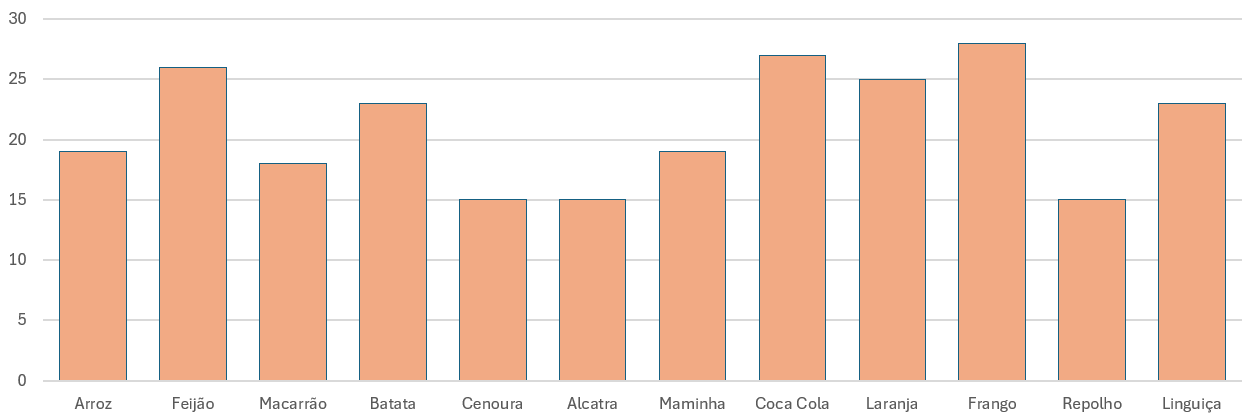
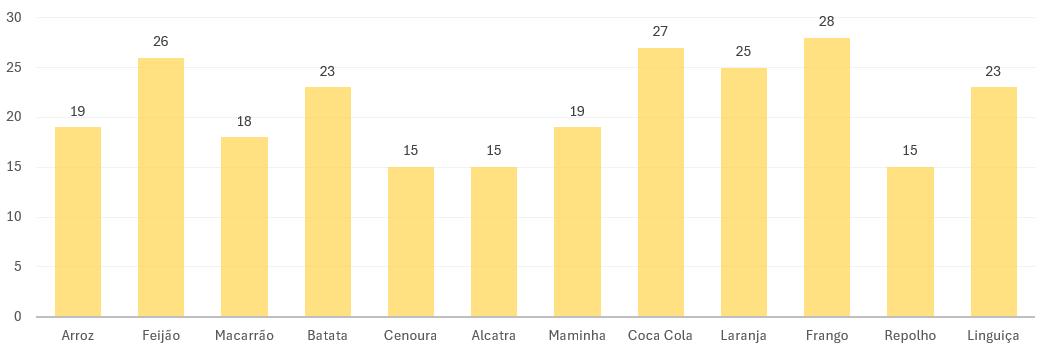
V.1.8

diff --git a/src/index1.css b/src/index1.css
@@ -5,7 +5,7 @@
   height: 100%;
   min-width: 1390px;
   min-height: 100vh;
-  background-color: #f3f0e8;
+  background-color: white;
   color: black;
   margin: 0 auto;
 }
@@ -17,7 +17,7 @@
   gap: 20px;
   padding: 5px 25px;
   background-color: white;
-  border-bottom: 1.5px solid #b88b09;
+  border-bottom: 3px solid black;
 }
 
 .hamburger-btn {
@@ -65,9 +65,8 @@
   justify-content: center;
   align-items: center;
   height: 35px;
-  background: brown;
+  background: #c92c2c;
   color: white;
-  border: 1.5px solid #b88b09;
   border-radius: 6px;
   font-weight: bold;
   margin-right: 0;
@@ -93,7 +92,7 @@
   margin: 0 10px;
   padding: 10px;
   background-color: white;
-  border: 1.5px solid #b88b09;
+  border: 1px solid gold;
   color: black;
   border-radius: 10px;
   font-weight: bold;
@@ -111,7 +110,8 @@
 
 .card {
   background-color: white;
-  border: 1.5px solid #b88b09;
+  border: 1px solid gold;
+  box-shadow: 0 4px 10px rgba(0, 0, 0, 0.30);
   padding: 10px;
   height: 125px;
   border-radius: 10px;
@@ -140,7 +140,7 @@
   flex: 3;
   background-color: white;
   border-radius: 12px;
-  border: 1.5px solid #b88b09;
+  box-shadow: 0 4px 10px rgba(0, 0, 0, 0.40);
   padding: 12px;
   background-image: url(./images/grafico.png);
   background-size: contain;
@@ -155,7 +155,7 @@
   background: white;
   border-radius: 12px;
   padding: 10px;
-  border: 1.5px solid #b88b09;
+  box-shadow: 0 4px 10px rgba(0, 0, 0, 0.40);
   min-height: 200px;
   max-height: 350px;
 }
@@ -164,6 +164,7 @@
   text-align: center;
   font-size: 22px;
   font-weight: bold;
+  font-style: italic;
   color: #c92c2c;
   margin-bottom: 15px;
 }
@@ -182,12 +183,35 @@
   background-color: white;
   color: black;
   margin-bottom: 12px;
-  border: 1.5px solid #b88b09;
 }
 
 .validade, .estoque, .fornecedor, .boleto {
-  background-color: #fff0f0;
+  background-color: #ffeaea;
   padding: 10px;
+}
+
+.validade-icone, .estoque-icone, .fornecedor-icone, .boleto-icone {
+  width: 25px;
+  height: 25px;
+  border-radius: 50%;
+  background-size: cover;
+  background-position: center;
+}
+
+.validade-icone {
+  background-image: url(./images/validade.png);
+}
+
+.estoque-icone {
+  background-image: url(./images/estoque.png);
+}
+
+.fornecedor-icone {
+  background-image: url(./images/fornecedor.png);
+}
+
+.boleto-icone {
+  background-image: url(./images/boleto.png);
 }
 
 * {
@@ -222,7 +246,7 @@ body, #root {
   background: white;
   padding: 20px;
   border-radius: 12px;
-  border: 1.5px solid #b88b09;
+  border: 1.5px solid gold;
   text-align: center;
 }
 
@@ -250,18 +274,18 @@ input {
   border-radius: 6px;
   padding: 10px 10px;
   margin-bottom: 25px;
-  background-color: rgb(175, 175, 175);
-  border: 1.5px solid #b88b09;
+  background-color: white;
+  border: 1.5px solid rgb(175, 175, 175);
 }
 
 .auth-switch {
-  color: #b88b09;
+  color: black;
   margin-top: 15px;
   font-size: 14px;
 }
 
 .auth-switch span {
-  color: 1.5px solid #b88b09;
+  color: 1.5px solid gold;
   cursor: pointer;
   font-weight: bold;
 }
@@ -279,8 +303,7 @@ input {
   border-radius: 6px;
   padding: 10px 40px 10px 10px;
   margin-bottom: 15px;
-  border: 1px solid #ccc;
-  border: 1.5px solid #b88b09;
+  border: 1.5px solid rgb(175, 175, 175);  
 }
 
 .eye-btn {

diff --git a/src/Index1.jsx b/src/Index1.jsx
@@ -58,19 +58,23 @@ export default function Index1({ irPara }) {
         <h2 className="alerta-titulo">ALERTAS!</h2>
 
         <button className="alerta-btn validade">
-          <span>⚠</span> Notificação de Validade!
+          <span className="validade-icone"></span>
+          <span>Notificação de Validade!</span> 
         </button>
 
         <button className="alerta-btn estoque">
-          <span>📦</span> Notificação de Estoque!
+          <span className="estoque-icone"></span>
+          <span>Notificação de Estoque!</span> 
         </button>
 
         <button className="alerta-btn fornecedor">
-          <span>📄</span> Notificação de Fornecedor!
+          <span className="fornecedor-icone"></span>
+          <span>Notificação de Fornecedor!</span> 
         </button>
 
         <button className="alerta-btn boleto">
-          <span>💵</span> Notificação de Boleto!
+          <span className="boleto-icone"></span>
+          <span>Notificação de Boleto!</span> 
         </button>
       </div>
       </div>

diff --git a/src/App.jsx b/src/App.jsx
@@ -1,7 +1,7 @@
 import { useState } from 'react'
 import Cadastro from "./cadastro";
 import Login from "./login";
-import Index1 from "./index1";
+import Index1 from "./Index1";
 import './App.css'
 
 
